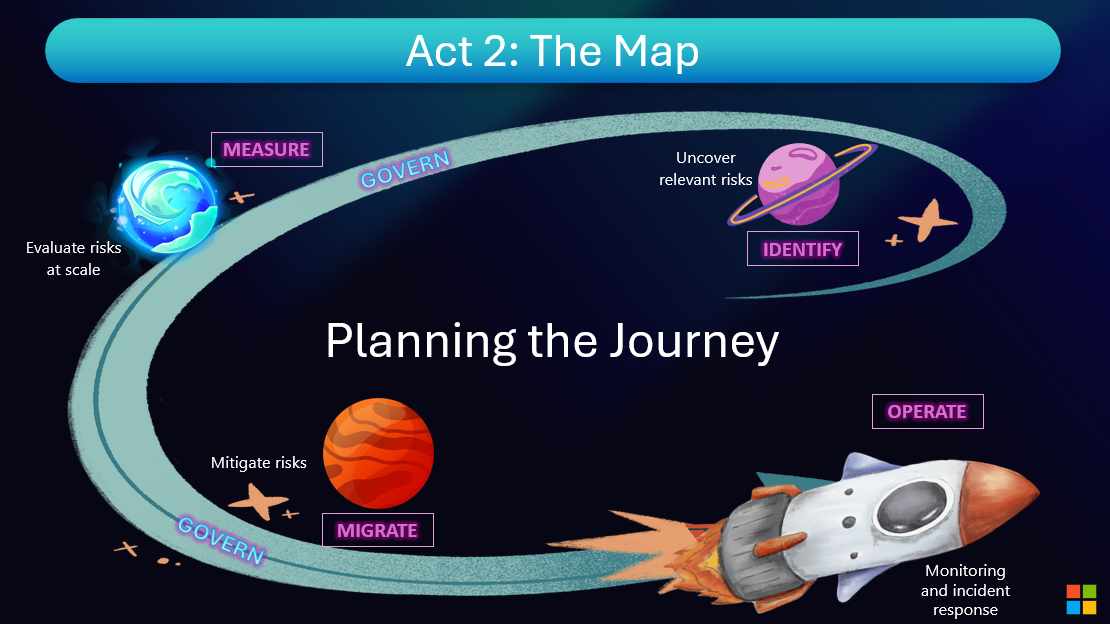
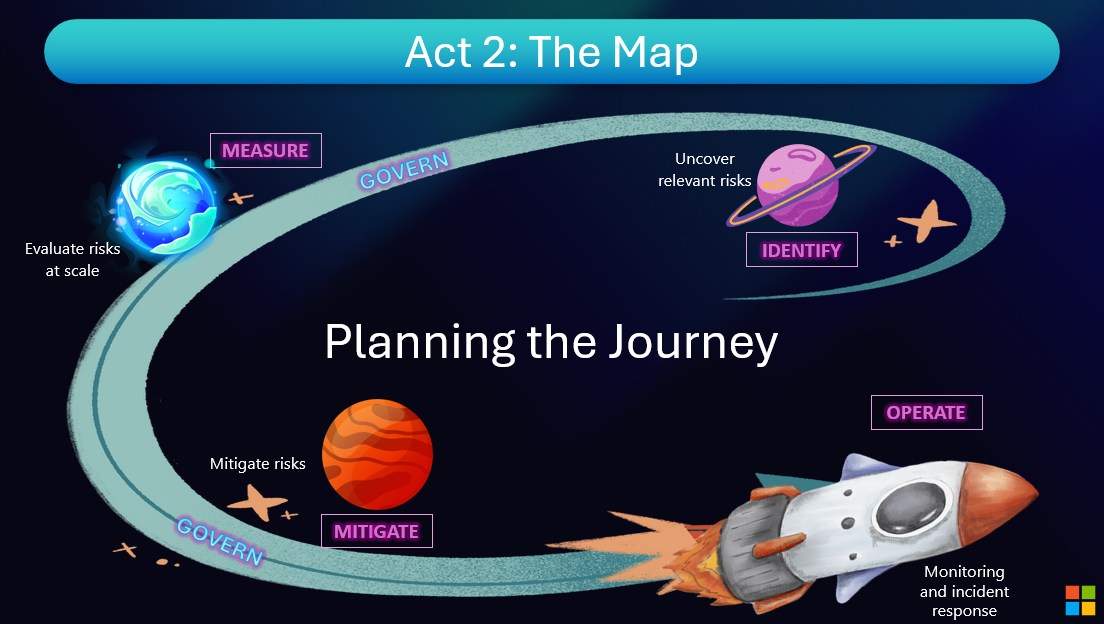
Revise Chapter 10 to focus on the Responsible AI Lifecycle, updating content for clarity and relevance while removing outdated sections on human-AI collaboration.

diff --git a/docs/chapters/chapter-10.md b/docs/chapters/chapter-10.md
@@ -1,212 +1,29 @@
-# Chapter 10: Human-AI Collaboration
+# Chapter 10: Responsible AI Lifecycle  
 
-<div class="hero">
-  <h2>Human-AI Collaboration</h2>
-  <p>Part of Core Concepts • Chapter 10 of 50</p>
-</div>
+![Image 10 - Map](../images/10.%20Map.png)  
 
-## Overview
+## Overview  
 
-This chapter explores human-ai collaboration, providing comprehensive coverage of key concepts, practical applications, and best practices for building trustworthy AI systems.
+The good news is, a few years ago, you’d need to do all this yourself – build those dashboards, manually monitor thousands of signals and interpret them in time to save your operations from going down. But now, all the steps I highlight today can be done with Azure Foundry and across the whole Microsoft AI Suite. You can operationalize AI responsibly, hand in hand with AI as your copilot.
+These are the essential development steps we use in our own engineering teams, and these steps will guide our conversation today.  
 
-![Image 10 - Map](../images/10.%20Map.png)
+Now, this makes the process look somewhat linear, system, any software development process, it’s totally iterative and filled with experimentation.  
 
-## Learning Objectives
+We’ll go through each of these steps in more depth, but here’s a quick overview.  
 
-By the end of this chapter, you will be able to:
+- First, note this governance layer. At Microsoft, we have AI principles and governance processes that define our product requirements and serve as our north star.  
+- As soon as we have a business use case requiring generative AI, we work to identify the potential risks that could result from the AI system, so we know what we need to look out for.  
+- We also measure how prevalent the risks are in our AI system, so we know where to focus our attention.  
+- We also leverage tools and techniques to mitigate those risk, using strategies such as prompt engineering, grounding, and content filters.  
+- We then look at strategies for deployment and operational readiness, including setting up monitoring so we can continually improve our app in production.  
 
-- 📋 Understand the fundamental concepts of human-ai collaboration
-- 🎯 Apply key principles to real-world scenarios
-- 🔧 Implement practical solutions and best practices
-- 📊 Evaluate outcomes using appropriate metrics
-- 🚀 Scale your approach for production systems
 
-## Key Concepts
-
-<div class="card">
-
-### Concept 1: Foundation Principles
-
-This section covers the foundational principles that underpin human-ai collaboration. Understanding these concepts is crucial for building effective and trustworthy AI systems.
-
-**Key Points:**
-- Principle 1: Core understanding
-- Principle 2: Practical application
-- Principle 3: Real-world implementation
-
-</div>
-
-<div class="card">
-
-### Concept 2: Technical Implementation
-
-Learn how to implement human-ai collaboration in your AI projects with practical, hands-on approaches.
-
-**Key Points:**
-- Implementation strategy
-- Tools and frameworks
-- Common pitfalls to avoid
-
-</div>
-
-<div class="card">
-
-### Concept 3: Best Practices
-
-Industry-standard best practices and guidelines for human-ai collaboration.
-
-**Key Points:**
-- Industry standards
-- Performance optimization
-- Continuous improvement
-
-</div>
-
-<div class="image-placeholder">
-  Diagram: Human-AI Collaboration Architecture
-</div>
-
-## Practical Examples
-
-### Example 1: Basic Implementation
-
-```python
-# Example code for Human-AI Collaboration
-import numpy as np
-from sklearn.model_selection import train_test_split
-
-# Sample implementation
-def example_function():
-    """
-    Demonstrate human-ai collaboration concepts.
-    """
-    # Initialize parameters
-    data = np.random.rand(100, 10)
-    labels = np.random.randint(0, 2, 100)
-    
-    # Split data
-    X_train, X_test, y_train, y_test = train_test_split(
-        data, labels, test_size=0.2, random_state=42
-    )
-    
-    print(f"Training set size: {len(X_train)}")
-    print(f"Test set size: {len(X_test)}")
-    
-    return X_train, X_test, y_train, y_test
-
-# Run example
-if __name__ == "__main__":
-    example_function()
-```
-
-### Example 2: Advanced Application
-
-```python
-# Advanced implementation example
-class TrustworthyAIComponent:
-    """
-    Advanced component demonstrating human-ai collaboration.
-    """
-    
-    def __init__(self, config):
-        self.config = config
-        self.model = None
-    
-    def train(self, data):
-        """Train the model with trustworthy AI principles."""
-        # Implementation here
-        pass
-    
-    def evaluate(self, test_data):
-        """Evaluate model with appropriate metrics."""
-        # Implementation here
-        pass
-    
-    def deploy(self):
-        """Deploy with safety checks."""
-        # Implementation here
-        pass
-```
-
-<div class="image-placeholder">
-  Code Example Visualization
-</div>
-
-## Resources and Further Reading
-
-### Essential Reading
-- 📚 Research Paper: "Key Concepts in Human-AI Collaboration"
-- 📚 Book: "Practical Guide to Human-AI Collaboration"
-- 📚 Article: "Industry Perspectives on Human-AI Collaboration"
-
-### Tools and Frameworks
-- 🛠 Framework 1: Popular implementation tool
-- 🛠 Framework 2: Industry-standard library
-- 🛠 Framework 3: Open-source solution
+## Resources and Further Reading  
 
 ### Online Resources
-- 🌐 [Official Documentation](https://example.com)
-- 🌐 [Community Forum](https://example.com)
-- 🌐 [Tutorial Series](https://example.com)
+- 🌐 [Overview of responsible AI practices for Azure OpenAI models](https://learn.microsoft.com/en-us/azure/ai-foundry/responsible-ai/openai/overview)  
+- 🌐 [Explore Responsible AI](https://learn.microsoft.com/en-us/training/modules/responsible-ai/)  
 
-### Code Repositories
-- 💻 [Sample Implementation](https://github.com/example)
-- 💻 [Best Practices Guide](https://github.com/example)
-- 💻 [Production Examples](https://github.com/example)
-
-## Hands-On Exercise
-
-!!! note "Exercise: Apply Human-AI Collaboration"
-    **Objective:** Practice implementing human-ai collaboration in a real scenario.
-    
-    **Steps:**
-    1. Set up your development environment
-    2. Load the sample dataset
-    3. Implement the core functionality
-    4. Evaluate results using appropriate metrics
-    5. Document your findings
-    
-    **Expected Outcome:** A working implementation demonstrating key concepts.
-
-<div class="image-placeholder">
-  Exercise Workflow Diagram
-</div>
-
-## Common Challenges and Solutions
-
-### Challenge 1: Implementation Complexity
-**Problem:** Initial implementation can be complex and overwhelming.
-**Solution:** Start with simple examples and gradually increase complexity.
-
-### Challenge 2: Performance Optimization
-**Problem:** Achieving optimal performance requires tuning.
-**Solution:** Use established benchmarks and iterative optimization.
-
-### Challenge 3: Production Deployment
-**Problem:** Moving from development to production involves many considerations.
-**Solution:** Follow MLOps best practices and implement proper monitoring.
-
-## Summary
-
-In this chapter, we covered:
-
-- ✅ Fundamental concepts of human-ai collaboration
-- ✅ Practical implementation approaches
-- ✅ Best practices and industry standards
-- ✅ Real-world examples and use cases
-- ✅ Resources for continued learning
-
-## Key Takeaways
-
-!!! success "Remember"
-    - Human-AI Collaboration is essential for building trustworthy AI systems
-    - Start with fundamentals before moving to advanced topics
-    - Practice with real examples to solidify understanding
-    - Always consider ethical implications and best practices
-
-<div class="image-placeholder">
-  Chapter Summary Infographic
-</div>
 
 ## Next Steps
 
